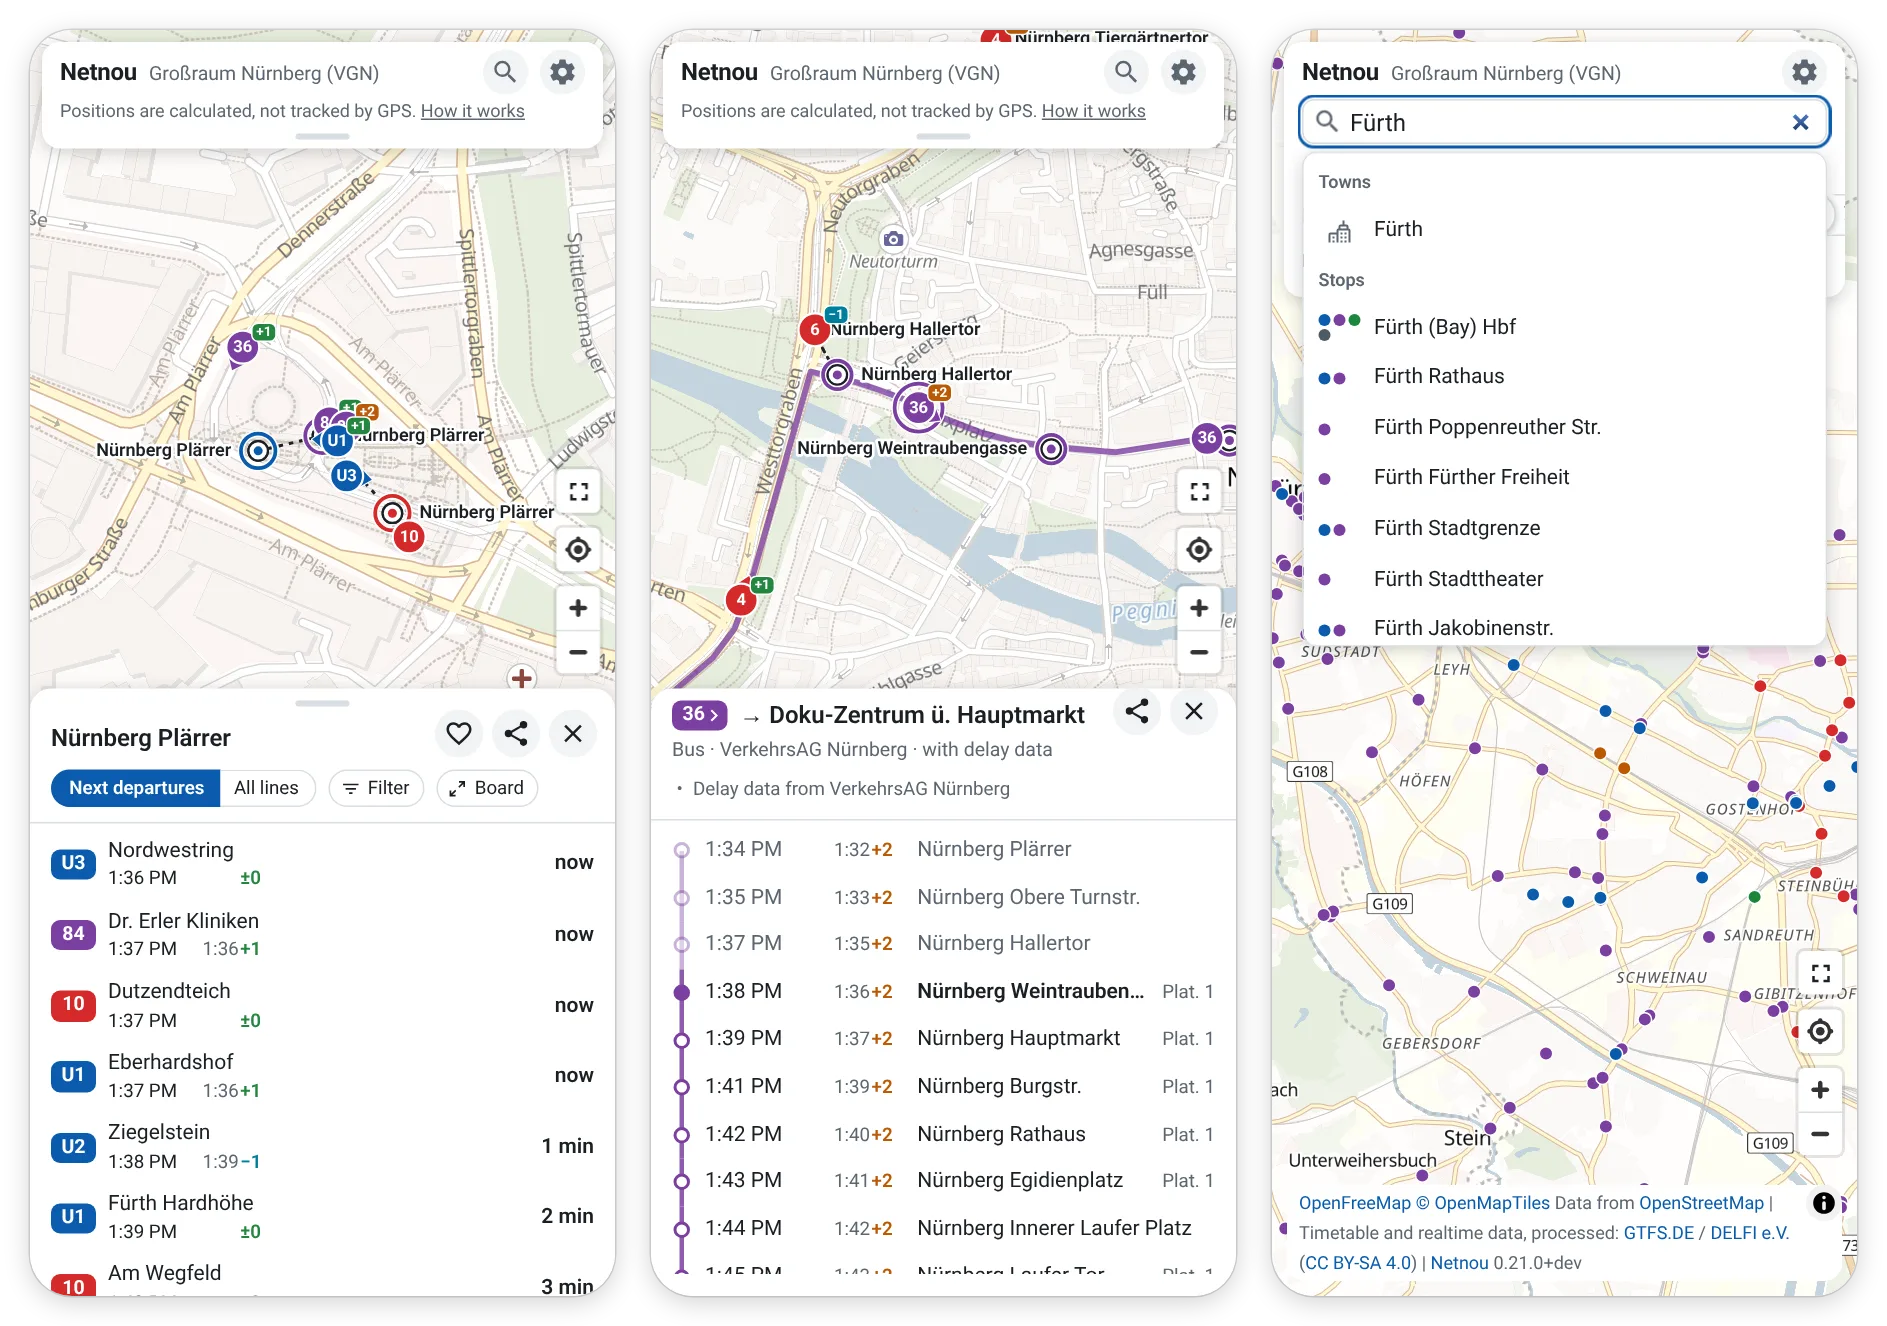
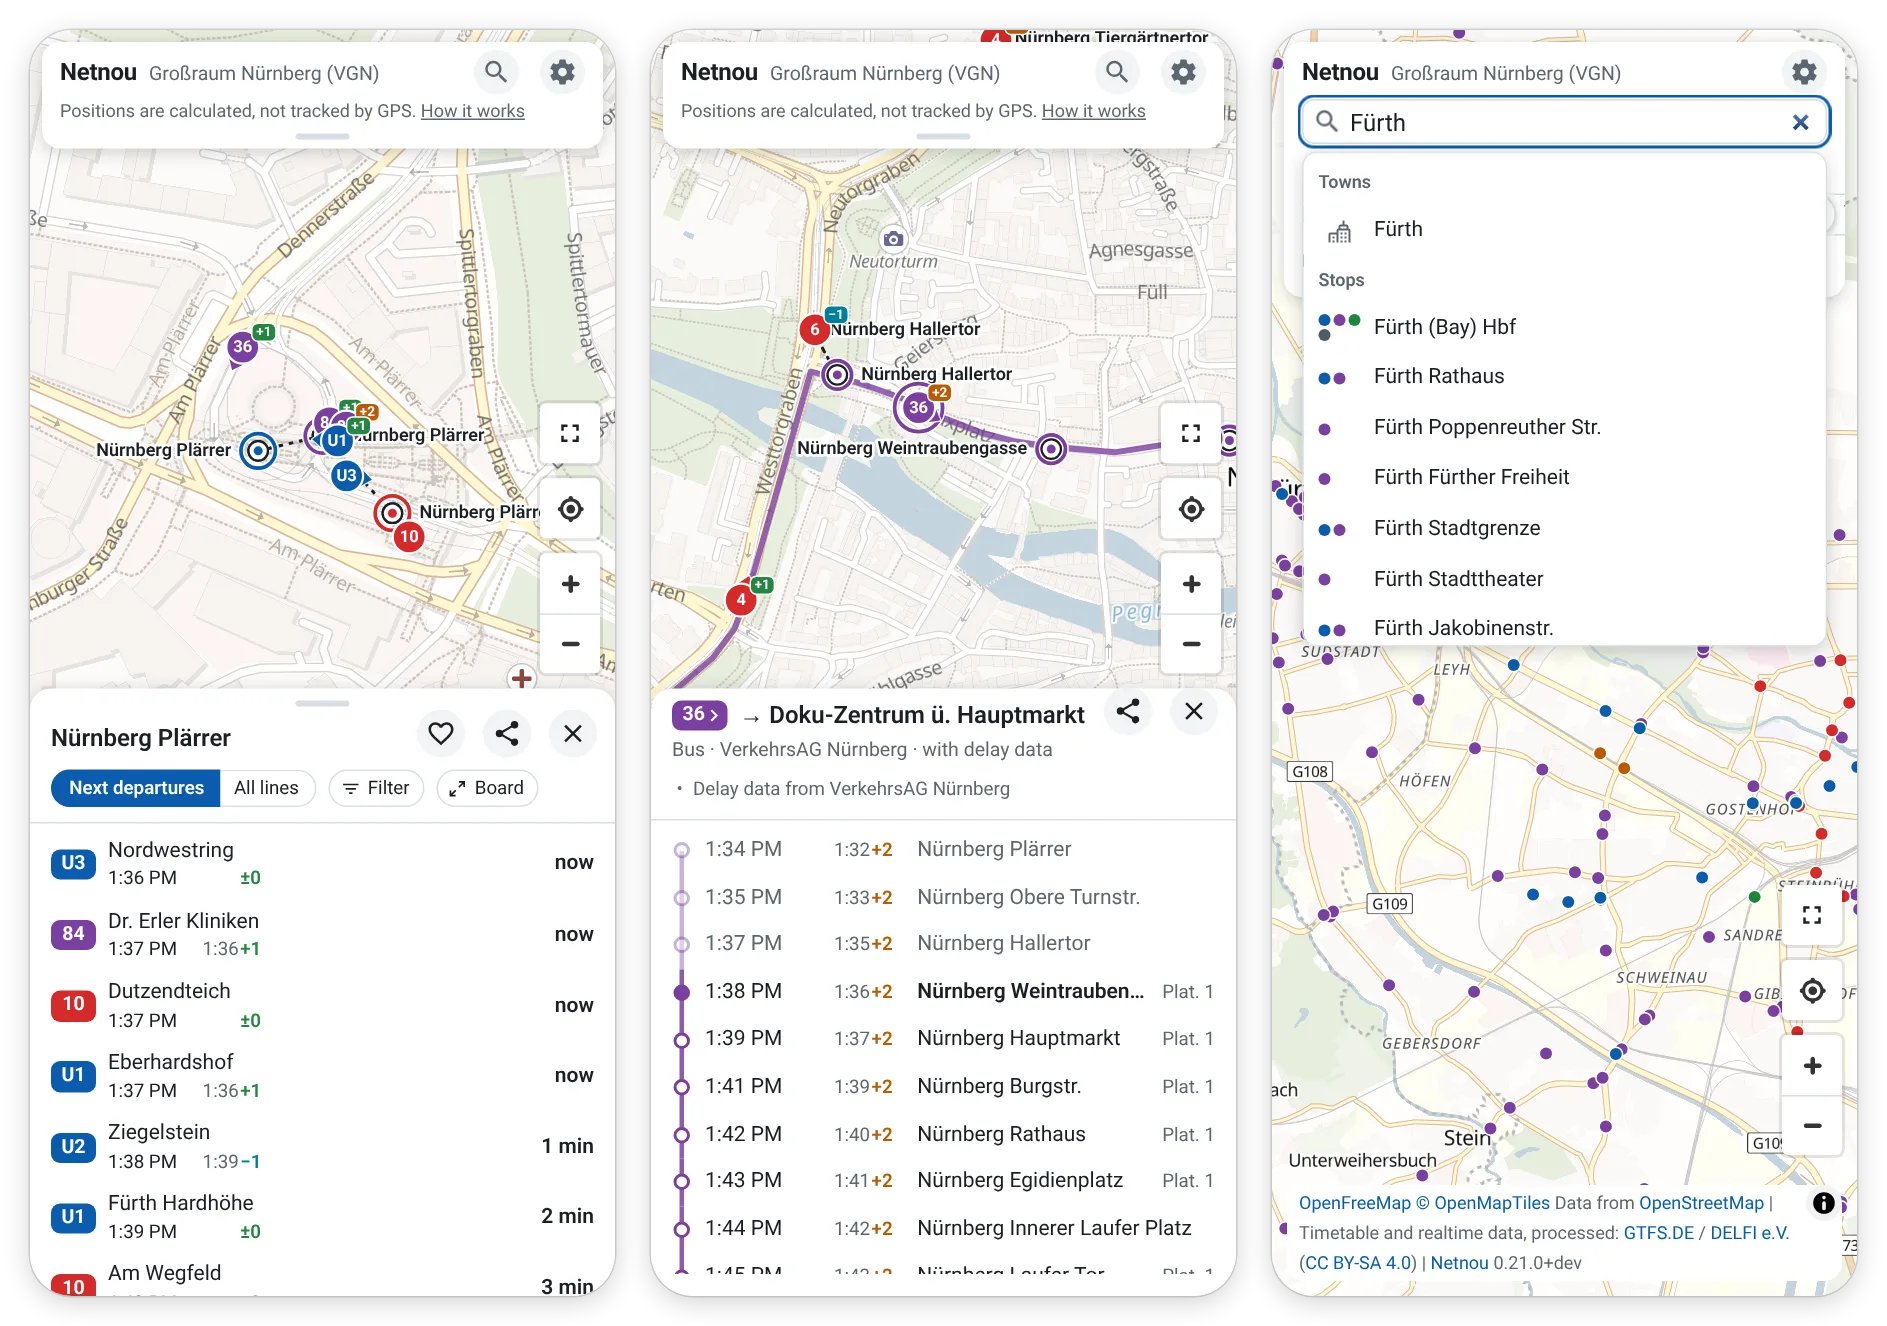
fix(page): on a phone every button takes a finger over 44 by 44 px, share and close apart (#281)
Most targets on a phone were under 44 px, and close sat 6 px from share:
a finger that missed share closed the stop.

Every button now takes the taps that land beside it (::after), as far as
the next button's area, so that the areas meet but never overlap:

- heart, share and close 44 px apart, 12 px between them (6 before)
- the lens and the gear, the lens 6 px further from it
- the chips under a stop's name and the cross of a chosen filter; where
  they wrap, the second line 20 px below the first
- the two directions of a line, whose names are cut in a span now, so
  the button does not clip its own area
- the chips of the modes and their arrows, the switches of the settings,
  the sources of the map, the close button of every sheet

Three take a little more room for it: the map buttons are 40 px where a
finger is the pointer, the way back stands 12 px above the name, and the
chips of the filter sheet are 15 px apart. The way back leaves the
stroke of the sheet's bar to the bar.

Left as they are: the search field, the language list, the sheet's bar,
the card's grip (40 px, #274) and links in a sentence.

diff --git a/public/style.css b/public/style.css
@@ -583,15 +583,15 @@ button:focus-visible, select:focus-visible, .row:focus-visible, .panel:focus-vis
   background: var(--bg-subtle);
   cursor: pointer;
 }
-.share { right: 46px; }
-.heart { right: 84px; }
+.share { right: 52px; }
+.heart { right: 96px; }
 .heart.on { color: var(--delay-severe); }
 /* (what says that the address was copied, where there is nothing to share it with: under the button, for a moment) */
 .copied {
   position: absolute;
   z-index: 3;
   top: 46px;
-  right: 46px;
+  right: 52px;
   margin: 0;
   padding: 4px 10px;
   border-radius: 999px;
@@ -603,14 +603,14 @@ button:focus-visible, select:focus-visible, .row:focus-visible, .panel:focus-vis
 .panel .copied.favourited { right: 8px; }
 
 .panel-head { padding: 14px 48px 10px 14px; border-bottom: 1px solid var(--border); }
-/* The way back to the details these were opened from, above their name (app.js, "the way back"): it keeps clear of the buttons at the top. */
-.panel-back { display: inline-flex; align-items: center; gap: 2px; max-width: calc(100% - 116px); margin: -4px 0 4px -6px; padding: 2px 8px 2px 2px; border: 0; border-radius: 999px; background: none; color: var(--accent); font: inherit; font-size: 13px; font-weight: 600; cursor: pointer; }
+/* The way back to the details these were opened from, above their name (app.js, "the way back"): it keeps clear of the buttons at the top, and of the name below as far as a finger needs (see "room for a finger"). */
+.panel-back { display: inline-flex; align-items: center; gap: 2px; max-width: calc(100% - 128px); margin: -4px 0 16px -6px; padding: 2px 8px 2px 2px; border: 0; border-radius: 999px; background: none; color: var(--accent); font: inherit; font-size: 13px; font-weight: 600; cursor: pointer; }
 .panel-back .icon { flex: none; width: 18px; height: 18px; }
 .panel-back span { overflow: hidden; text-overflow: ellipsis; white-space: nowrap; }
 .panel-back:hover span { text-decoration: underline; }
 /* (the heading beside the two buttons; what is below it is clear of them) */
-.panel.shareable .panel-head h1, .panel.shareable .panel-head h2 { padding-right: 38px; }
-.panel.favourable .panel-head h1, .panel.favourable .panel-head h2 { padding-right: 76px; }
+.panel.shareable .panel-head h1, .panel.shareable .panel-head h2 { padding-right: 44px; }
+.panel.favourable .panel-head h1, .panel.favourable .panel-head h2 { padding-right: 88px; }
 /* the main heading of the page while the details are open (#254); a board has h2 */
 .panel-head h1, .panel-head h2 {
   margin: 0;
@@ -682,8 +682,9 @@ button:focus-visible, select:focus-visible, .row:focus-visible, .panel:focus-vis
 
 /* the sheet: every line a row of its directions */
 .choice-list { margin-top: 12px; }
-.choice-lines { list-style: none; margin: 10px 0 0; padding: 0; display: grid; gap: 8px; }
-.choice-lines li { display: flex; flex-wrap: wrap; gap: 6px; }
+/* (as far apart, one below the other, as a finger needs: see "room for a finger") */
+.choice-lines { list-style: none; margin: 10px 0 0; padding: 0; display: grid; gap: 15px; }
+.choice-lines li { display: flex; flex-wrap: wrap; gap: 15px 6px; }
 .choice-list .chip { white-space: normal; text-align: left; }
 .choice-list .chip .direction-sign { margin: -5px -2px -5px -4px; }
 /* (the notes go out to the edge the rows below end at: the button that closes is above them) */
@@ -798,7 +799,9 @@ button:focus-visible, select:focus-visible, .row:focus-visible, .panel:focus-vis
    beside it. */
 .panel-head .sub.line-ways { margin-top: 10px; }
 .view-switch.ways { min-width: 0; max-width: calc(100% - 3em); }
-.view-switch.ways button { min-width: 0; overflow: hidden; text-overflow: ellipsis; }
+/* (the name cut where it does not fit is in a span: the button itself does not cut off the room for a finger around it) */
+.view-switch.ways button { min-width: 0; }
+.view-switch.ways button > span { display: block; overflow: hidden; text-overflow: ellipsis; }
 .line-body { position: relative; }
 .line-stops { list-style: none; margin: 0; padding: 6px 0; --rail: var(--mode-other); }
 .line-stops[data-mode="subway"] { --rail: var(--mode-subway); }
@@ -880,14 +883,15 @@ button.line-vehicle { position: absolute; left: -18px; top: -18px; width: 36px; 
 .day-head { display: flex; align-items: center; gap: 8px; padding-right: 14px; }
 .day-head::after { content: ""; flex: 1; border-top: 1px solid var(--border); }
 /* The badge at the top of a trip leads to its line (#147): the sign in it
-   says so, and under a mouse a ring. A finger has 40 px of height to hit it,
+   says so, and under a mouse a ring. A finger has 44 px of height to hit it,
    which the margins take back from the line of the head; above the line
-   below, and on a phone above the end of the bar on top of the sheet. */
+   below, and on a phone above the end of the bar on top of the sheet, or
+   below the way back. */
 .to-line {
   position: relative;
   display: inline-flex;
-  margin: -10px -4px;
-  padding: 10px 4px;
+  margin: -12px -4px;
+  padding: 12px 4px;
   border: 0;
   background: none;
   cursor: pointer;
@@ -1124,6 +1128,51 @@ li:last-child > .row.stop .rail::before { bottom: 50%; }
 .note-full .sign { margin-right: 6px; }
 .note-full + .note-full { margin-top: 12px; padding-top: 12px; border-top: 1px solid var(--border); }
 
+/* ---------- room for a finger ---------- */
+
+/* A button takes a finger over 44 by 44 px, as Apple and the enhanced level
+   of WCAG ask, though most of them look smaller: what is around one takes
+   the taps that land beside it (::after), as far as the next button. Buttons
+   side by side keep room enough between them that these areas meet but do
+   not overlap, so a finger meant for one never reaches the other: share and
+   close (.share, .heart), the lens and the gear (.search-open). Where there is
+   not that room the area is as large as there is room. The sizes are for the
+   places the buttons have; each says what is next to it. */
+.settings-open, .search-open, .search-close, .chips-more span, .segmented button, .wall-start,
+.view-switch button, .choice-open, .choice-clear, .board-open, .panel-back, .maplibregl-ctrl-group button { position: relative; }
+.settings-open::after, .search-open::after, .search-close::after, .close::after, .share::after, .heart::after,
+.chips-more span::after, .segmented button::after, .wall-start::after, .view-switch button::after,
+.choice-open::after, .choice-clear::after, .board-open::after, .panel-back::before, .panel-back::after,
+.maplibregl-ctrl-group button::after, .maplibregl-ctrl-attrib-button::after { content: ""; position: absolute; }
+/* (the round buttons of the title row: the gear and the lens; above them the edge of the screen, below them the field of the search or the line that positions are calculated) */
+.settings-open::after, .search-open::after { inset: -11px -7px -3px; }
+.search-open { margin-right: 6px; }
+.search-close::after { inset: -5px; }
+/* (the buttons in the corner of the details and the sheets, 44 px apart) */
+.close::after, .share::after, .heart::after { inset: -6px; }
+/* (the switches of the settings and the button below them, with what they are called between them) */
+.segmented button::after, .wall-start::after { left: 0; right: 0; top: calc(50% - 22px); height: 44px; }
+/* (the way back: below it the name or the badge of a trip; above it the bar of the sheet, which keeps its stroke in the middle for a finger) */
+.panel-back::after { left: 0; right: 0; top: 0; bottom: -6px; }
+.panel-back::before { left: 0; top: -16px; width: min(100%, calc(50vw - 40px)); height: 16px; }
+/* (the chips of the lines to choose, in rows 15 px apart and 6 px side by side) */
+.choice-list .chip { position: relative; }
+.choice-list .chip::after { content: ""; position: absolute; top: calc(50% - 22px); left: -3px; right: -3px; height: 44px; }
+/* (the round arrows at the ends of the chips, over the chip under them) */
+.chips-more span::after { top: calc(50% - 22px); left: calc(50% - 22px); width: 44px; height: 44px; }
+/* (the buttons of the map, one above the other and 10 px apart, the two of the zoom in one block: under a mouse as large as MapLibre draws them, with 44 px of width and as much height as there is room; for a finger 40 px, with 44 by 44) */
+.maplibregl-ctrl-group button::after { left: -7px; right: -8px; top: 0; bottom: 0; }
+.maplibregl-ctrl-group button:first-child::after { top: -5px; }
+.maplibregl-ctrl-group button:last-child::after { bottom: -5px; }
+@media (pointer: coarse) {
+  .maplibregl-ctrl-group button { width: 40px; height: 40px; }
+  .maplibregl-ctrl-group button::after { left: -2px; right: -2px; }
+  .maplibregl-ctrl-group button:first-child::after { top: -4px; }
+  .maplibregl-ctrl-group button:last-child::after { bottom: -4px; }
+}
+/* (the button that shows the sources of the map, in the corner of the screen) */
+.maplibregl-ctrl-attrib-button::after { inset: -10px; }
+
 /* ---------- small screens: controls on top, details as bottom sheet ---------- */
 
 @media (max-width: 720px) {
@@ -1155,7 +1204,10 @@ li:last-child > .row.stop .rail::before { bottom: 50%; }
   /* One row of chips that scrolls sideways, out to the edges of the card. */
   .chips-row { margin: 0 -12px; }
   /* (scroll-padding: a chip that gets the keyboard focus comes to rest clear of the arrows) */
-  .chips { flex-wrap: nowrap; overflow-x: auto; padding: 0 12px 2px; scrollbar-width: none; scroll-behavior: smooth; scroll-padding-inline: 64px; }
+  /* (the room above and below the chips is the row's too, as much as it gives back: a finger takes a chip there, see "room for a finger") */
+  .chips { flex-wrap: nowrap; overflow-x: auto; margin: -9px 0; padding: 9px 12px 11px; scrollbar-width: none; scroll-behavior: smooth; scroll-padding-inline: 64px; }
+  .chips .chip { position: relative; }
+  .chips .chip::after { content: ""; position: absolute; top: calc(50% - 22px); left: -3px; right: -3px; height: 44px; }
   .chips::-webkit-scrollbar { display: none; }
   /* Where the row goes on (app.js knows), the chips fade out under an arrow
      that moves the row on: without it nothing shows that there are more. */
@@ -1244,13 +1296,20 @@ li:last-child > .row.stop .rail::before { bottom: 50%; }
   /* (so what is at their top has the whole width) */
   .panel .panel-head { padding-right: 14px; }
   .panel .panel-head h1, .panel .panel-head h2 { padding-right: 36px; }
-  .panel .share { top: 14px; right: 50px; }
-  .panel .copied { top: 52px; right: 50px; }
-  .panel.shareable .panel-head h1, .panel.shareable .panel-head h2 { padding-right: 74px; }
+  .panel .share { top: 14px; right: 56px; }
+  .panel .copied { top: 52px; right: 56px; }
+  .panel.shareable .panel-head h1, .panel.shareable .panel-head h2 { padding-right: 80px; }
   /* (the heart before the share button) */
-  .panel .heart { top: 14px; right: 88px; }
+  .panel .heart { top: 14px; right: 100px; }
   .panel .copied.favourited { top: 52px; right: 12px; }
-  .panel.favourable .panel-head h1, .panel.favourable .panel-head h2 { padding-right: 112px; }
+  .panel.favourable .panel-head h1, .panel.favourable .panel-head h2 { padding-right: 124px; }
+  /* (for a finger, see "room for a finger": the buttons from the bar of the sheet down, the chips under them, side by side, from there to the departures) */
+  .panel .close::after, .panel .share::after, .panel .heart::after { inset: -12px -6px 0; }
+  .panel-head .view-switch button::after, .panel-head .choice-open::after, .panel-head .choice-clear::after, .panel-head .board-open::after { left: 0; right: 0; top: calc(50% - 20px); height: 44px; }
+  /* (and where they take two lines, as with directions chosen, the second as far below the first as these areas need) */
+  .panel-head .sub.with-choice { row-gap: 20px; }
+  /* (the cross that shows all lines again is narrow: its area takes the end of the chip it is in, and half the room beside it) */
+  .panel-head .choice-clear::after { left: -15px; right: -6px; }
   .panel-head .notes, .panel-head .sub.with-choice { margin-right: 0; }
   /* A sheet has little room: every note is one line there, cut where it does
      not fit. app.js makes a button of what is cut, and keeps all notes to a
@@ -1382,8 +1441,8 @@ li:last-child > .row.stop .rail::before { bottom: 50%; }
 :root[data-board] .panel .close,
 :root[data-board] .panel .share { top: 8px; width: 32px; height: 32px; }
 :root[data-board] .panel .close { right: calc(8px + var(--safe-right)); }
-:root[data-board] .panel .share { right: calc(46px + var(--safe-right)); }
-:root[data-board] .panel .copied { top: 46px; right: calc(46px + var(--safe-right)); }
+:root[data-board] .panel .share { right: calc(52px + var(--safe-right)); }
+:root[data-board] .panel .copied { top: 46px; right: calc(52px + var(--safe-right)); }
 
 /* The type of a board grows with it: a share of its height, or of its width
    where that is less, from a little more than the details have to that of a

diff --git a/test/panel.test.js b/test/panel.test.js
@@ -158,7 +158,7 @@ test('the head of a line: its name and kind, its operator and vehicles, and the 
   const line = { name: 'U1', mode: 'subway', agency: 'VAG', vehicles: [{ id: 'a' }, { id: 'b' }, { id: 'c' }], ways: [{ to: 'Langwasser Süd' }, { to: 'Fürth Hardhöhe' }] };
   const head = `<div class="panel-head"><h1><span class="badge" data-mode="subway">U1</span><span>${en['mode.subway']}</span></h1><p class="sub">VAG · 3 vehicles under way</p>`;
   assert.equal(toHtml(lineHead(line, drawing(), 1)), `${head}<p class="sub with-choice line-ways"><span>${en['line.toward']}</span><span class="view-switch ways" role="group" aria-label="${en['line.ways']}">`
-    + '<button type="button" aria-pressed="false" data-way="0" title="to Langwasser Süd">Langwasser Süd</button><button type="button" aria-pressed="true" data-way="1" title="to Fürth Hardhöhe">Fürth Hardhöhe</button></span></p></div>');
+    + '<button type="button" aria-pressed="false" data-way="0" title="to Langwasser Süd"><span>Langwasser Süd</span></button><button type="button" aria-pressed="true" data-way="1" title="to Fürth Hardhöhe"><span>Fürth Hardhöhe</span></button></span></p></div>');
   // none to switch: without a way shown, or with one way only, as around a ring; none under way
   assert.equal(toHtml(lineHead(line, drawing())), `${head}</div>`);
   assert.equal(toHtml(lineHead({ ...line, ways: [{ to: 'Ring' }] }, drawing(), 0)), `${head}</div>`);

diff --git a/public/panel.js b/public/panel.js
@@ -413,7 +413,7 @@ export function lineHead(line, { t }, way = null) {
     way !== null && ways.length > 1
       ? h('p', { class: 'sub with-choice line-ways' }, h('span', {}, t('line.toward')),
         h('span', { class: 'view-switch ways', role: 'group', 'aria-label': t('line.ways') },
-          ways.map((one, i) => h('button', { type: 'button', 'aria-pressed': String(i === way), 'data-way': i, title: t('line.to', { destination: one.to }) }, one.to))))
+          ways.map((one, i) => h('button', { type: 'button', 'aria-pressed': String(i === way), 'data-way': i, title: t('line.to', { destination: one.to }) }, h('span', {}, one.to)))))
       : null);
 }
 
